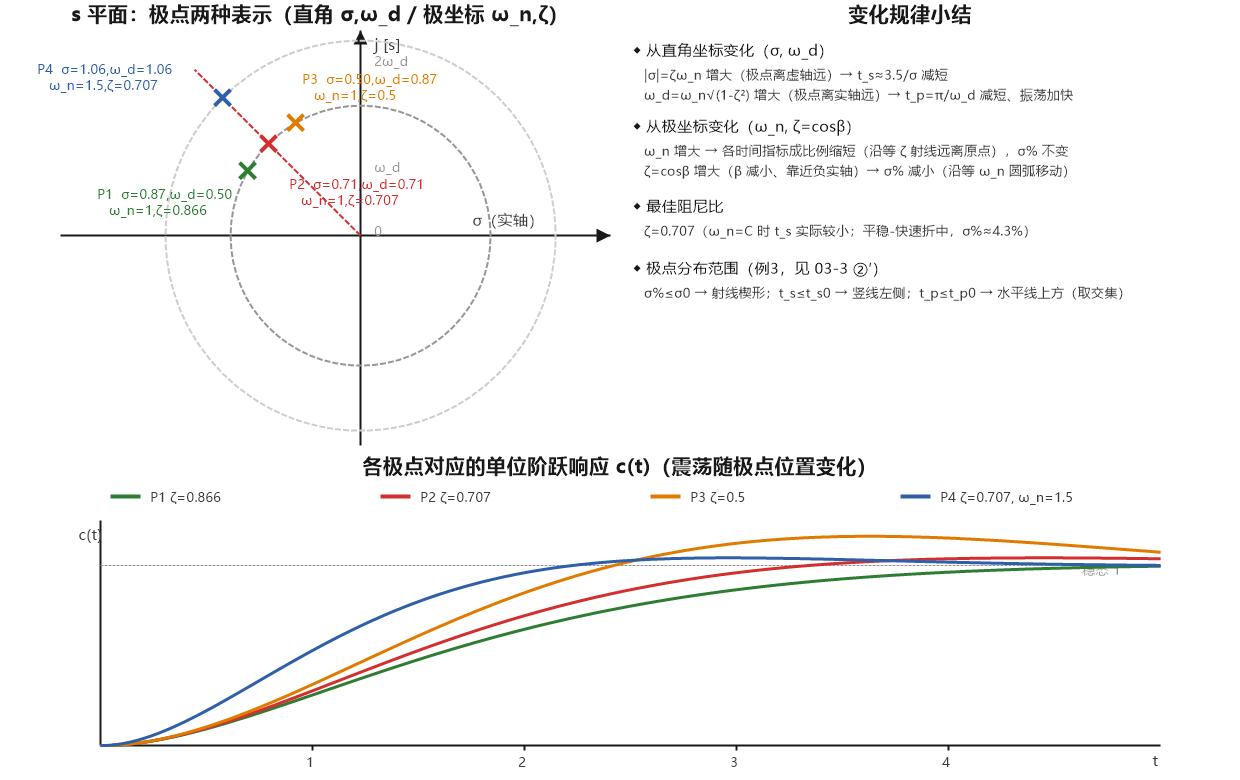
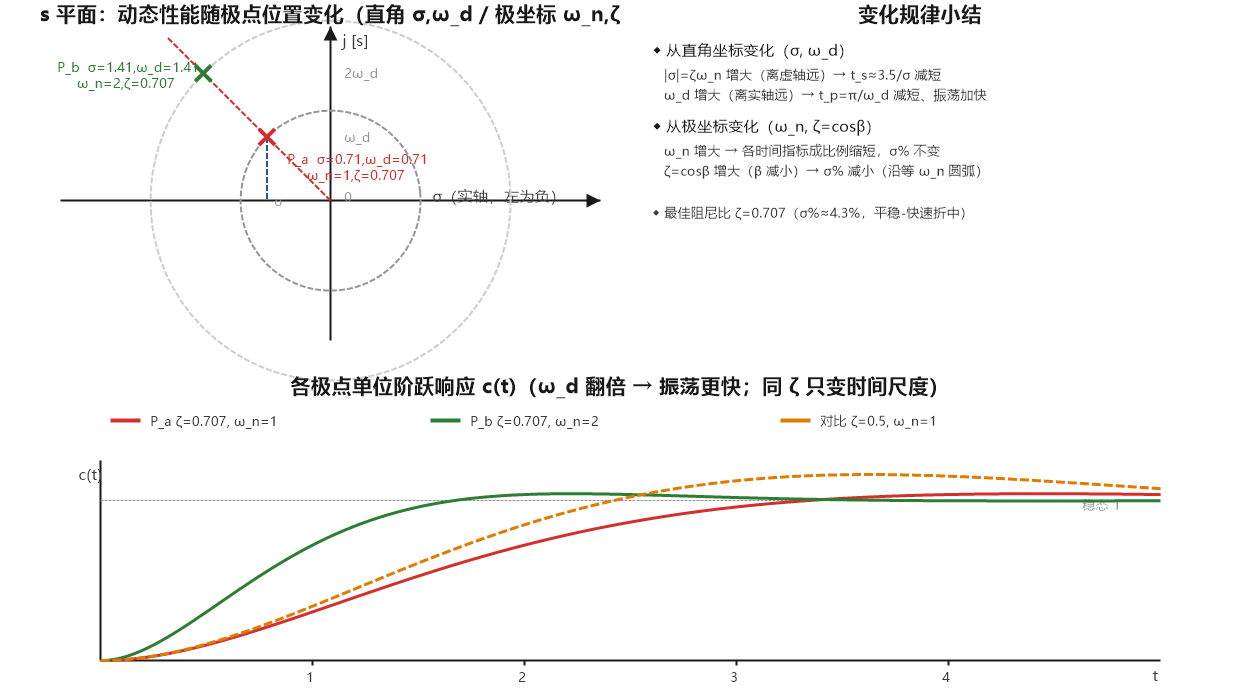
docs: 两张图按Word末尾两页重画——03-1变化规律图(p11风格:σ/ωd/2ωd刻度+等ζ阻尼线+ωd与2ωd极点+σ等t_s竖线+两表示+响应)；03-3新增极点分布范围图(p12:极点网格+约束交集可行区)

diff --git a/自动控制原理/03-3 解题套路与典型题型.md b/自动控制原理/03-3 解题套路与典型题型.md
@@ -52,6 +52,10 @@ $$
 
 综合取**三者交集**区域。典型二阶系统 $\beta=\arccos\zeta$，等阻尼线即从原点出发、与负实轴夹角 $\beta$ 的射线——$\zeta$ 越大 $\beta$ 越小（极点位置-性能的对应关系见 [[03-1 一阶与二阶系统的时域响应]] §3.3.1，此处为逆向使用）。
 
+![[自控-极点分布范围.png|430]]
+
+*例3：s 平面上候选极点（×）与极点分布范围——σ%、t_s、t_p 三条约束在 s 平面划出三条界线，三者交集即可行范围（绿圈为满足者，示意；参数按题给）*
+
 **③ 求稳定的 $K$ 范围**：闭环特征方程 → 劳斯表 → 首列全正解不等式组；临界 $K$ 下用**辅助方程** $F(s)=0$ 求等幅振荡频率 $\omega$。
 **④ 稳态误差**：开环传函化**时间常数形式**读型别 $\nu$ 与增益 $K$（易错：把零极点形式的 $K^*$ 当增益查表）→ 查 3.6 表；复合输入线性叠加；扰动误差写出 $E_n(s)$ 用终值定理。
 **⑤ 高阶系统**：找闭环主导极点对（偶极子先对消）→ 按二阶公式估算。

diff --git a/自动控制原理/03-1 一阶与二阶系统的时域响应.md b/自动控制原理/03-1 一阶与二阶系统的时域响应.md
@@ -141,7 +141,7 @@ $$
 
 ![[自控-s平面极点震荡.png|520]]
 
-*按讲义 §5 风格的"变化规律"图：s 平面极点两种表示（直角 σ,ω_d / 极坐标 ω_n,ζ）+ 变化规律小结（从直角坐标变化 / 从极坐标变化）+ 各极点单位阶跃响应震荡*
+*按讲义 §5 风格：s 平面 σ 实轴 / j[s] 虚轴（0、ω_d、2ω_d 刻度）+ 等 ζ 阻尼虚线 + ω_d 与 2ω_d 两个极点（两种表示标注）+ σ 等 t_s 竖线；右上"变化规律小结"；下方对应单位阶跃响应（ω_d 翻倍 → 更快）*
 
 **① 直角坐标表示**（极点 $s_{1,2}=-\sigma\pm\mathrm{j}\omega_d$，实部管衰减、虚部管振荡）：
 
